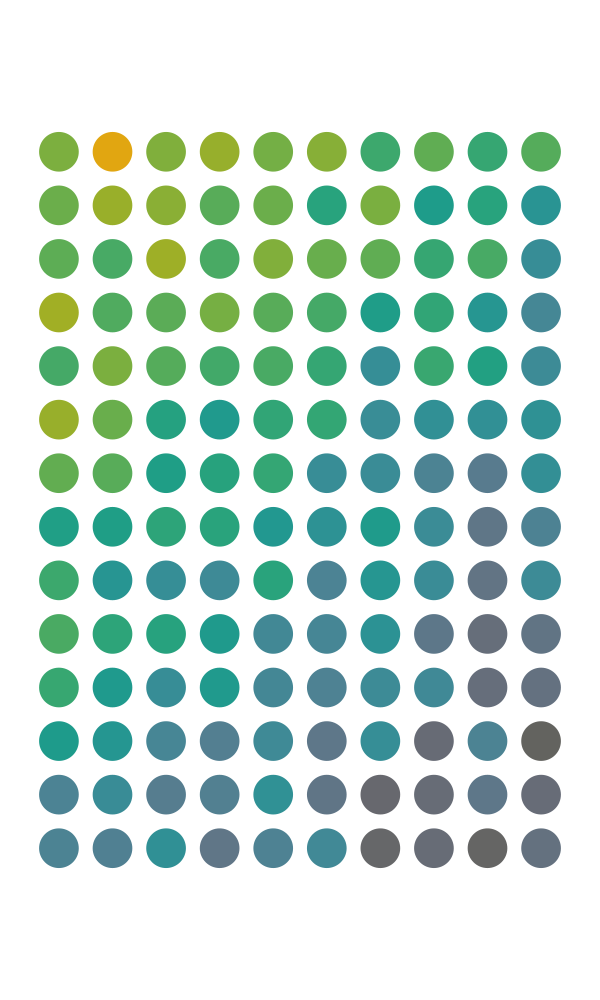
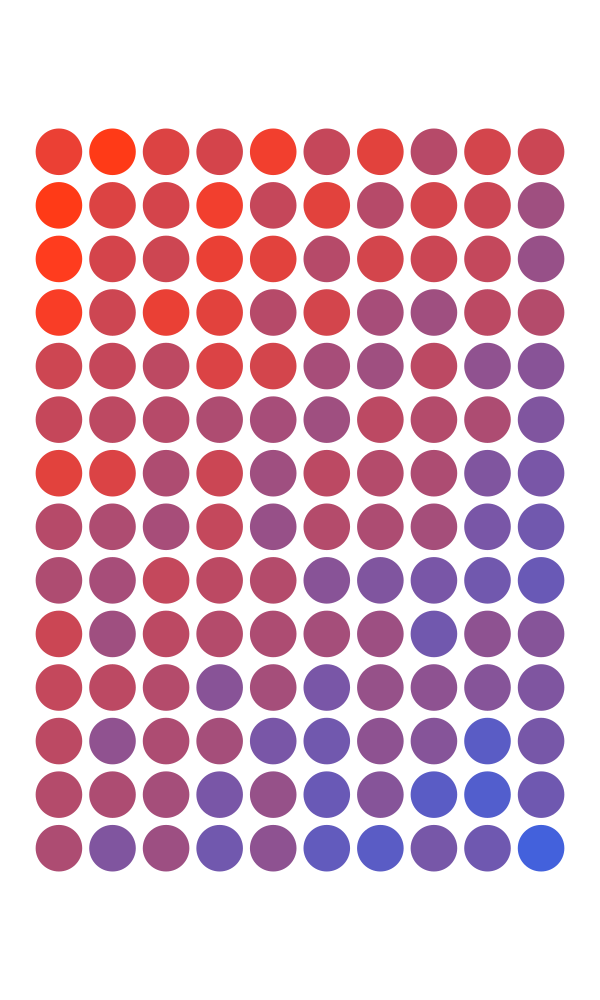
Revert back to RGB interpolation instead of LCH.

diff --git a/dotmatrix/visualization/visualization.py b/dotmatrix/visualization/visualization.py
@@ -46,29 +46,33 @@ def draw_dots(ctx, config):
                 color=dot)
 
 
+def noise(value, effect):
+    return (effect * random.randrange(-1, 1)) + value
+
+
 random.seed(1000)
 # start = (95, 156, 67)
 # start = (30, 71, 56)
 # stop = (242, 195, 179)
-start = (random.random() * 255, random.random()
-         * 255, random.random() * 255)
-stop = (random.random() * 255, random.random()
-        * 255, random.random() * 255)
+start = (235, 64, 52)
+stop = (52, 100, 235)
+# start = (random.random() * 255, random.random()
+#          * 255, random.random() * 255)
+# stop = (random.random() * 255, random.random()
+#         * 255, random.random() * 255)
 draw({
-    #    'width': 3000,
-    #    'height': 4000,
     'width': 600,
     'height': 1000,
     'padding-vertical': 0.125,
     'padding-horizontal': 0.025,
     'dots': {
-        'spacing': 0.35,
+        'spacing': 0.15,
         'colors': [
             [
                 dot_color(
                     start,
                     stop,
-                    (0.2 * ((random.random() * 2) - 1)) + (i+j)/18)
+                    noise((i + j) / 24, 0.2))
                 for i in range(10)
             ]
             for j in range(14)

diff --git a/dotmatrix/visualization/color.py b/dotmatrix/visualization/color.py
@@ -1,19 +1,5 @@
-from colormath.color_objects import sRGBColor, LCHabColor
-from colormath.color_conversions import convert_color
-
-
 def dot_color(start, stop, scale):
-    start_rgb = sRGBColor(*normalize_rgb(start))
-    stop_rgb = sRGBColor(*normalize_rgb(stop))
-    start_lch = convert_color(start_rgb, LCHabColor)
-    stop_lch = convert_color(stop_rgb, LCHabColor)
-
-    color_lch = linear(
-        start_lch.get_value_tuple(),
-        stop_lch.get_value_tuple(),
-        scale)
-
-    return convert_color(LCHabColor(*color_lch), sRGBColor).get_value_tuple()
+    return normalize_rgb(interpolate(start, stop, scale))
 
 
 def normalize_rgb(color):
@@ -24,7 +10,7 @@ def normalize_rgb(color):
     )
 
 
-def linear(start, stop, scale):
+def interpolate(start, stop, scale):
     return (
         scale * stop[0] + (1 - scale) * start[0],
         scale * stop[1] + (1 - scale) * start[1],

diff --git a/README.md b/README.md
@@ -2,6 +2,8 @@
 
 Creates a dot matrix.
 
+![Dot Matrix Example](https://github.com/alvinlao/dot-matrix/blob/master/example.png)
+
 ## Installation
 ```
 # Install cairo
